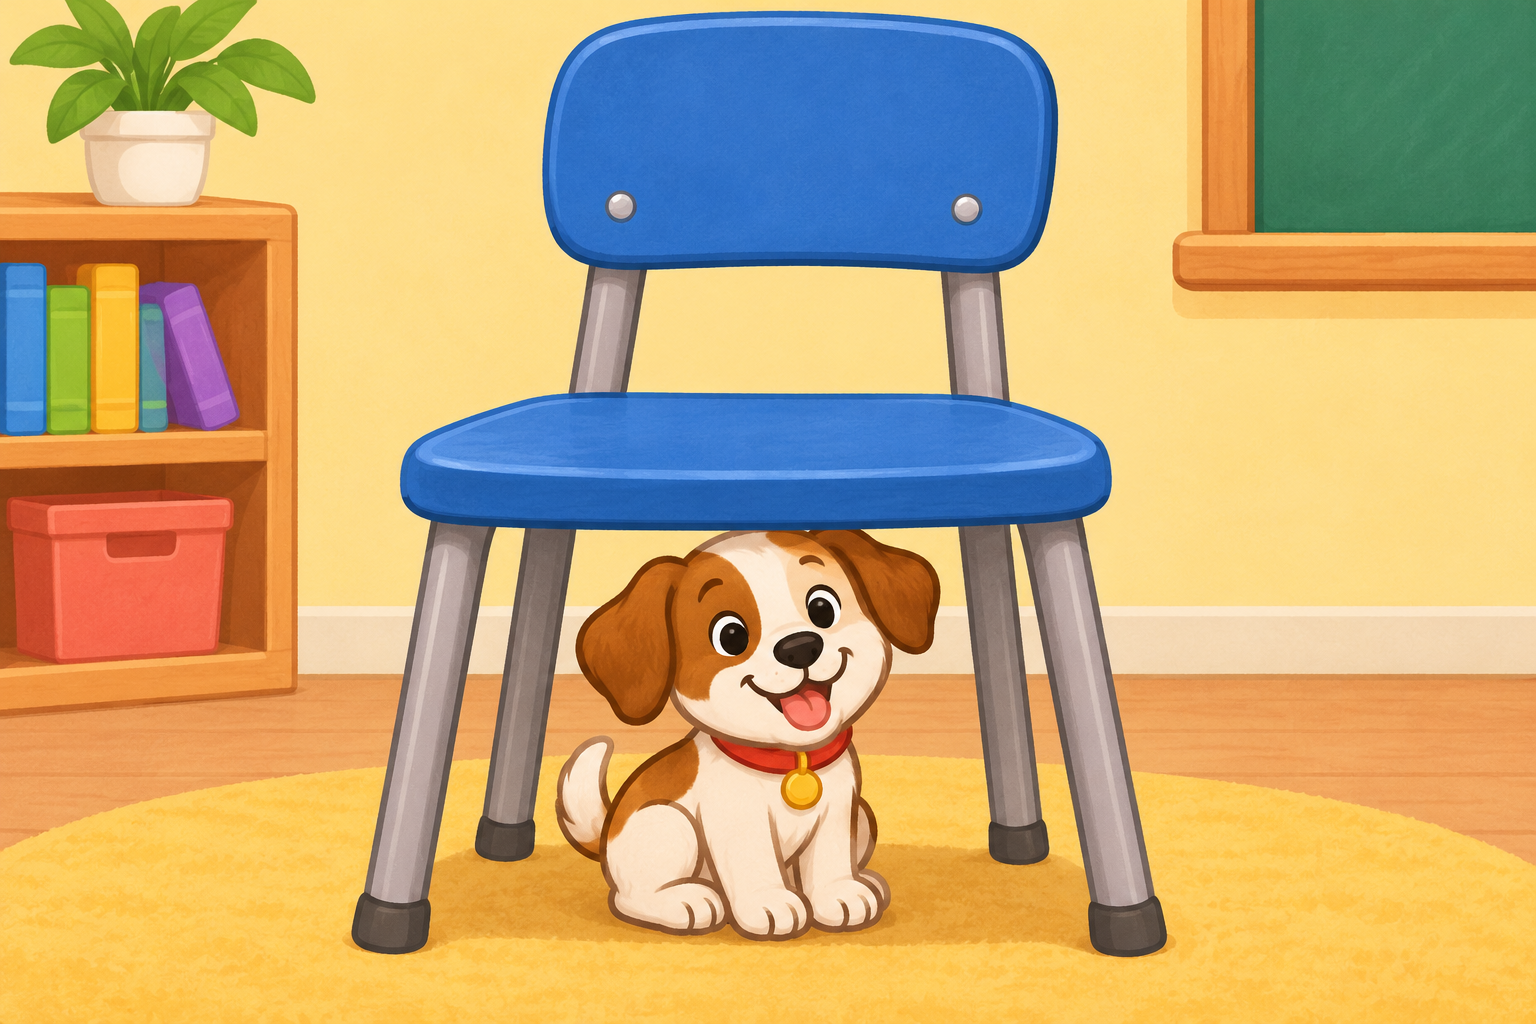
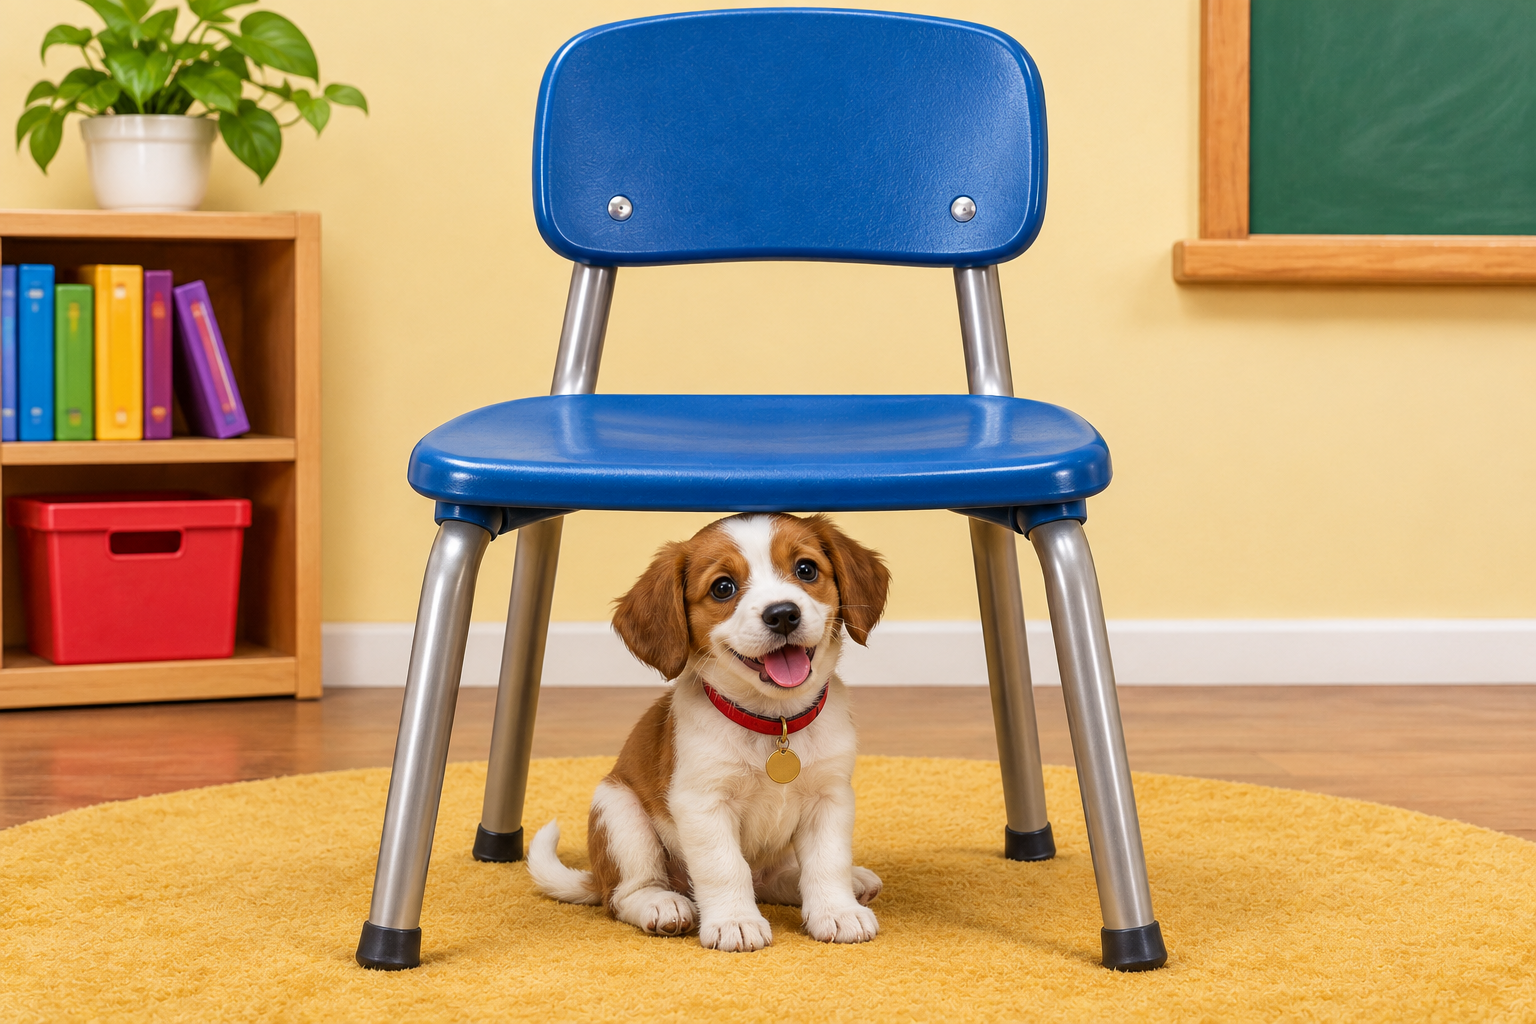
Make Grade 1 sight word pictures more realistic

diff --git a/components/k12-classic-25-g1.js b/components/k12-classic-25-g1.js
@@ -34,28 +34,28 @@
     "g1:eng:sight":{
       name:"Sight Words in Sentences",
       questions:[
-        {"type":"mc","q":"The pencils are ___ the desk.","choices":["on","to","with","under"],"answer":"on","audio":"The pencils are ___ the desk.","image":{"src":"images/g1-sight-pencils-on-desk.png","alt":"Three colorful pencils resting on top of a classroom desk."}},
+        {"type":"mc","q":"The pencils are ___ the desk.","choices":["on","to","with","under"],"answer":"on","audio":"The pencils are ___ the desk.","image":{"src":"images/g1-sight-pencils-on-desk.png?v=realistic-20261107.1","alt":"Three colorful pencils resting on top of a classroom desk."}},
         {"type":"mc","q":"I ___ my little sister very much.","choices":["love","hear","open","see"],"answer":"love","audio":"I ___ my little sister very much.","explain":"Love is the word that tells how I feel about my little sister."},
-        {"type":"mc","q":"I ___ a red kite in the sky.","choices":["see","are","under","for"],"answer":"see","audio":"I ___ a red kite in the sky.","image":{"src":"images/g1-sight-red-kite.png","alt":"A child looking at a red kite flying in the sky."},"explain":"The child can see the red kite with their eyes."},
-        {"type":"mc","q":"We meet ___ the playground.","choices":["at","under","love","what"],"answer":"at","audio":"We meet ___ the playground.","image":{"src":"images/g1-sight-playground.png","alt":"Two children greeting each other at a playground."},"explain":"At tells where the children meet: at the playground."},
+        {"type":"mc","q":"I ___ a red kite in the sky.","choices":["see","are","under","for"],"answer":"see","audio":"I ___ a red kite in the sky.","image":{"src":"images/g1-sight-red-kite.png?v=realistic-20261107.1","alt":"A child looking at a red kite flying in the sky."},"explain":"The child can see the red kite with their eyes."},
+        {"type":"mc","q":"We meet ___ the playground.","choices":["at","under","love","what"],"answer":"at","audio":"We meet ___ the playground.","image":{"src":"images/g1-sight-playground.png?v=realistic-20261107.1","alt":"Two children greeting each other at a playground."},"explain":"At tells where the children meet: at the playground."},
         {"type":"mc","q":"I want ___ finish my book.","choices":["to","at","on","can"],"answer":"to","audio":"I want ___ finish my book."},
         {"type":"mc","q":"I can ___ the bell ringing.","choices":["hear","see","go","eat"],"answer":"hear","audio":"I can ___ the bell ringing."},
         {"type":"mc","q":"Lena ___ jump over the puddle.","choices":["can","has","is","for"],"answer":"can","audio":"Lena ___ jump over the puddle."},
-        {"type":"mc","q":"I ___ two birds near the tree.","choices":["see","eat","open","love"],"answer":"see","audio":"I ___ two birds near the tree.","image":{"src":"images/g1-sight-two-birds.png","alt":"A child looking at two birds perched near a tree."},"explain":"See means to notice something with your eyes. The child sees two birds."},
+        {"type":"mc","q":"I ___ two birds near the tree.","choices":["see","eat","open","love"],"answer":"see","audio":"I ___ two birds near the tree.","image":{"src":"images/g1-sight-two-birds.png?v=realistic-20261107.1","alt":"A child looking at two birds perched near a tree."},"explain":"See means to notice something with your eyes. The child sees two birds."},
         {"type":"mc","q":"Can ___ pass me the blue crayon?","choices":["you","the","for","on"],"answer":"you","audio":"Can ___ pass me the blue crayon?"},
         {"type":"mc","q":"I made this card ___ Grandma's birthday.","choices":["for","to","on","with"],"answer":"for","audio":"I made this card ___ Grandma's birthday.","explain":"For tells the reason the card was made: Grandma's birthday."},
         {"type":"mc","q":"That puppy is ___ playful.","choices":["very","under","hear","go"],"answer":"very","audio":"That puppy is ___ playful."},
         {"type":"mc","q":"We ___ to the library after lunch.","choices":["go","has","very","hear"],"answer":"go","audio":"We ___ to the library after lunch."},
         {"type":"mc","q":"Mia ___ my best friend.","choices":["is","do","at","open"],"answer":"is","audio":"Mia ___ my best friend."},
-        {"type":"mc","q":"___ are three ducks in the pond.","choices":["There","You","With","Can"],"answer":"There","audio":"___ are three ducks in the pond.","image":{"src":"images/g1-sight-three-ducks.png","alt":"Three ducks swimming in a pond."},"explain":"There tells us that the three ducks are in the pond."},
+        {"type":"mc","q":"___ are three ducks in the pond.","choices":["There","You","With","Can"],"answer":"There","audio":"___ are three ducks in the pond.","image":{"src":"images/g1-sight-three-ducks.png?v=realistic-20261107.1","alt":"Three ducks swimming in a pond."},"explain":"There tells us that the three ducks are in the pond."},
         {"type":"mc","q":"___ walked home together.","choices":["We","There","What","The"],"answer":"We","audio":"___ walked home together."},
         {"type":"mc","q":"We ___ dinner at six o'clock.","choices":["eat","open","do","are"],"answer":"eat","audio":"We ___ dinner at six o'clock."},
-        {"type":"mc","q":"The puppy is ___ the chair.","choices":["under","love","what","to"],"answer":"under","audio":"The puppy is ___ the chair.","image":{"src":"images/g1-sight-puppy-under-chair.png","alt":"A puppy sitting below the seat of a chair."},"explain":"Under tells where the puppy is: below the chair seat."},
+        {"type":"mc","q":"The puppy is ___ the chair.","choices":["under","love","what","to"],"answer":"under","audio":"The puppy is ___ the chair.","image":{"src":"images/g1-sight-puppy-under-chair.png?v=realistic-20261107.1","alt":"A puppy sitting below the seat of a chair."},"explain":"Under tells where the puppy is: below the chair seat."},
         {"type":"mc","q":"Please ___ your book to page ten.","choices":["open","go","has","hear"],"answer":"open","audio":"Please ___ your book to page ten."},
         {"type":"mc","q":"Please come ___ us.","choices":["with","under","for","very"],"answer":"with","audio":"Please come ___ us."},
         {"type":"mc","q":"The children ___ ready to begin.","choices":["are","is","has","do"],"answer":"are","audio":"The children ___ ready to begin."},
-        {"type":"mc","q":"Look ___ the rainbow!","choices":["at","to","with","under"],"answer":"at","audio":"Look ___ the rainbow!","image":{"src":"images/g1-sight-rainbow.png","alt":"Two children looking at a colorful rainbow."},"explain":"We say look at something when we turn our eyes toward it."},
-        {"type":"mc","q":"Ben ___ a new blue backpack.","choices":["has","are","hear","go"],"answer":"has","audio":"Ben ___ a new blue backpack.","image":{"src":"images/g1-sight-blue-backpack.png","alt":"Ben wearing a blue backpack on his way to school."},"explain":"Has tells us that the blue backpack belongs to Ben."},
+        {"type":"mc","q":"Look ___ the rainbow!","choices":["at","to","with","under"],"answer":"at","audio":"Look ___ the rainbow!","image":{"src":"images/g1-sight-rainbow.png?v=realistic-20261107.1","alt":"Two children looking at a colorful rainbow."},"explain":"We say look at something when we turn our eyes toward it."},
+        {"type":"mc","q":"Ben ___ a new blue backpack.","choices":["has","are","hear","go"],"answer":"has","audio":"Ben ___ a new blue backpack.","image":{"src":"images/g1-sight-blue-backpack.png?v=realistic-20261107.1","alt":"Ben wearing a blue backpack on his way to school."},"explain":"Has tells us that the blue backpack belongs to Ben."},
         {"type":"mc","q":"___ moon looks bright tonight.","choices":["The","There","What","We"],"answer":"The","audio":"___ moon looks bright tonight."},
         {"type":"mc","q":"___ do you want for lunch?","choices":["What","There","The","We"],"answer":"What","audio":"___ do you want for lunch?"},
         {"type":"mc","q":"I ___ not want to miss the bus.","choices":["do","see","has","very"],"answer":"do","audio":"I ___ not want to miss the bus."}

diff --git a/index.html b/index.html
@@ -66,7 +66,7 @@
 <script src="components/k12-early-games-shared.js?v=ui-js-fixes-20260816.1"></script>
 <script src="components/k12-classic-25-prek.js?v=early-refresh-20260822.2"></script>
 <script src="components/k12-classic-25-kindergarten.js?v=kindergarten-days-no-video-20260829.1"></script>
-<script src="components/k12-classic-25-g1.js?v=sight-word-images-20261107.2"></script>
+<script src="components/k12-classic-25-g1.js?v=realistic-sight-images-20261107.1"></script>
 <script src="components/k12-early-expanded-lessons.js?v=clear-questions-20261031.1"></script>
 <script src="components/k12-g1-regular-lessons.js?v=20261022.1"></script>
 <script src="components/k12-g1-english-more-20261031.js?v=20261031.1"></script>
